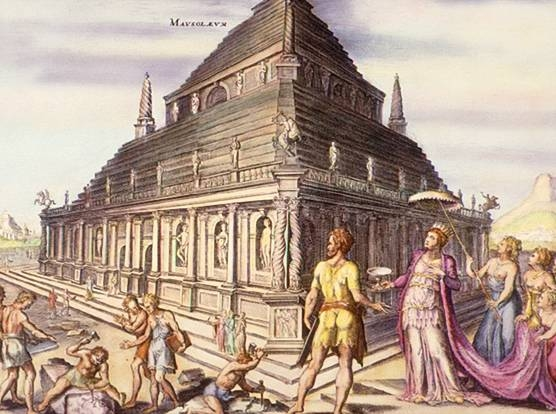
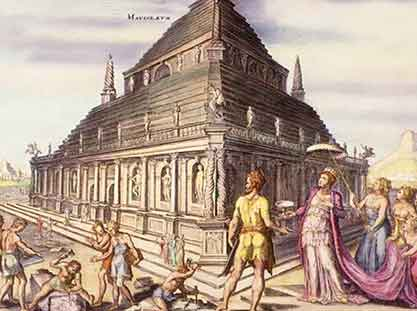
Formatted all images for web use at 72dpi

diff --git a/index.html b/index.html
@@ -37,7 +37,7 @@
 	<h2>The Seven Wonders</h2>
 
 	<div class="content1">
-		<img src="img/giza.png">
+		<img src="img/giza.jpg">
 			<h3>Great Pyramids of Giza</h3>
 				<dl>
 					<div><dt>Date of construction:</dt><dd>2584-2561 BC</dd></div>
